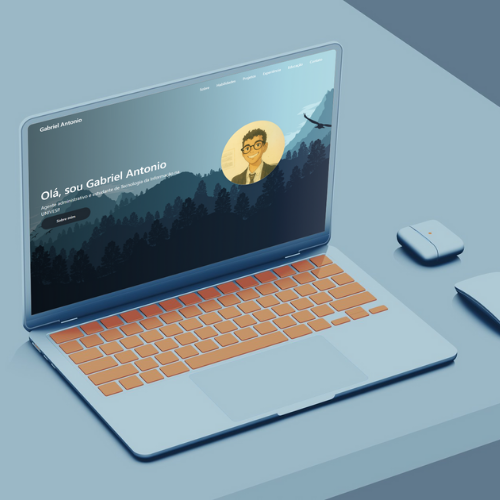
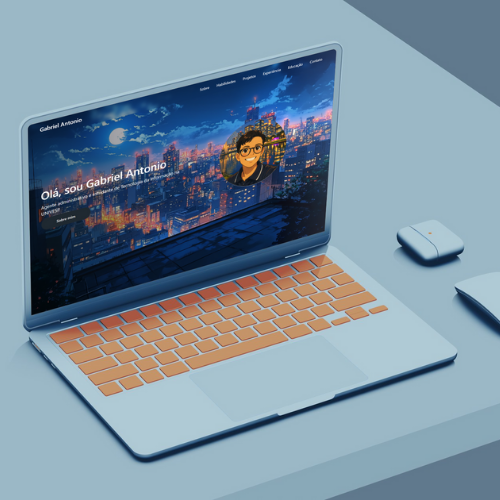
Update 2026
Atualização de estilo

Changed region(s): [[0.03, 0.09, 0.69, 0.6]]

diff --git a/index.html b/index.html
@@ -16,7 +16,7 @@
             font-family: 'Inter', sans-serif;
         }
         .hero-bg {
-            background-image: url('img/artistic-mountain-landscape-minimalist-vector-874586.jpeg'), linear-gradient(to right, rgba(32, 33, 35, 0.8), rgba(154, 152, 156, 0.8));
+            background-image: url('img/illustration-anime-city.jpg'), linear-gradient(to right, rgba(32, 33, 35, 0.8), rgba(154, 152, 156, 0.8));
             background-size: cover;
             background-position: center;
             background-blend-mode: overlay;
@@ -100,7 +100,7 @@
                 <a href="#sobre" style="background-color: #1f2931;" class="text-white-600 px-16 py-4 rounded-full font-semibold hover:bg-gray-200 transition">Sobre mim</a>
             </div>
             <div class="md:w-1/2 mt-8 md:mt-0 ml-0 md:ml-8 text-center">
-                <img src="img/foto_ghibli.jpg" class="rounded-full border-b mx-auto shadow-lg hover-zoom w-48 h-48 md:w-72 md:h-72" />
+                <img src="img/foto_ghibli.png" class="rounded-full border-b mx-auto shadow-lg hover-zoom w-48 h-48 md:w-72 md:h-72" />
             </div>
         </div>
     </section>
@@ -111,7 +111,7 @@
             <h2 class="text-3xl font-bold text-center mb-12 text-gray-800">Sobre Mim</h2>
             <div class="flex flex-col md:flex-row items-center">
                 <div class="md:w-1/2 mb-8 md:mb-0">
-                    <img src="https://storage.googleapis.com/workspace-0f70711f-8b4e-4d94-86f1-2a93ccde5887/image/8e6e6aa5-88c6-46a7-a9c9-de4e3050f0df.png" alt="Vista ampla de estação de trabalho com computador desktop, livros de programação, e uma visão de cidade através da janela em um quarto iluminado durante o dia" class="rounded-lg shadow-lg hover-zoom" />
+                    <img src="img/sobre.png" alt="Vista ampla de estação de trabalho com computador desktop, livros de programação, e uma visão de cidade através da janela em um quarto iluminado durante o dia" class="rounded-lg shadow-lg hover-zoom" />
                 </div>
                 <div class="md:w-1/2 md:pl-12">
                     <p class="text-lg leading-relaxed mb-4">
